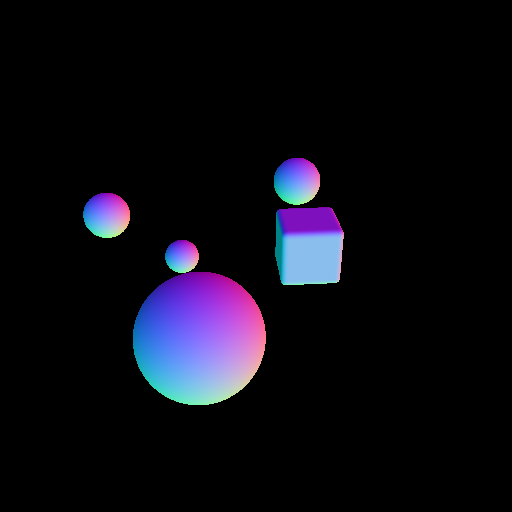
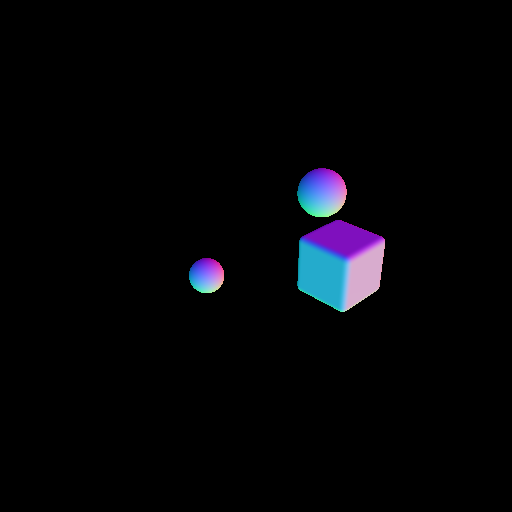
place obj randomly in test scenes

Changed region(s): [[0.25, 0.4688, 0.5312, 0.8125], [0.5312, 0.2812, 0.75, 0.625], [0.1562, 0.375, 0.2812, 0.4688]]

diff --git a/Assets/Scripts/VisualObjs.cs b/Assets/Scripts/VisualObjs.cs
@@ -61,9 +61,9 @@ public partial class VisualObjs : MonoBehaviour
     int fileCounter = 0;
     int maxFileCounter;
 
-    private int _trainNum = 100;
-    private int _testNum = 20;
-    private int _valNum = 20;
+    private int _trainNum = 10;
+    private int _testNum = 5;
+    private int _valNum = 5;
 
     // int train_end_idx = 10;
     // int validation_end_idx = 15;
@@ -79,6 +79,7 @@ public partial class VisualObjs : MonoBehaviour
 
     List<GameObject> models;
     private Rules rulesJson;
+    private string sceneType;
 
     // Start is called before the first frame update
     void Start()
@@ -104,7 +105,7 @@ public partial class VisualObjs : MonoBehaviour
         table_width = TABLE_WIDTH_BASE * scale_factor;
         table_height = TABLE_HEIGHT_BASE * scale_factor;
         maxFileCounter = _trainNum + _valNum + _testNum;
-        
+
         StreamReader streamReader = new StreamReader(Application.dataPath + "/Scripts/Rules/front.json");
         string json = streamReader.ReadToEnd();
         rulesJson = JsonConvert.DeserializeObject<Rules>(json);
@@ -121,16 +122,22 @@ public partial class VisualObjs : MonoBehaviour
         // generate test scenes
         if (fileCounter >= _trainNum + _valNum)
         {
+            sceneType = "test";
             saved_path = root_path + "test/";
             models = test_models;
         }
+        // generate validation scenes
         else if (fileCounter >= _trainNum)
         {
+            sceneType = "val";
             models = test_models;
             saved_path = root_path + "val/";
         }
+
+        // generate training scenes
         else if (fileCounter >= 0)
         {
+            sceneType = "train";
             saved_path = root_path + "train/";
         }
 
@@ -150,11 +157,6 @@ public partial class VisualObjs : MonoBehaviour
         // render the scene
         if (frames % _frameLoop == 0 && fileCounter < maxFileCounter)
         {
-            if (fileCounter == 2)
-            {
-                int a = 12;
-            }
-
             // change configurations if necessary
             SceneData = new SceneStruct(_objNum, fileCounter);
 
@@ -231,26 +233,28 @@ public partial class VisualObjs : MonoBehaviour
 
     bool addRuleObj(int objId, ObjProp objProp)
     {
-        // record objects' information
-        // List<Obj3D> obj3Ds = new List<Obj3D>();
+        float newScale = strFloMapping[objProp.size];
 
-        // init obj
+        if (String.Equals(sceneType, "test"))
+        {
+            bool isGood = randomPos(newScale, objProp.Shape,objProp.Material, objId);
+            return isGood;
+        }
 
         int num_tries = 0;
-        float obj_radius = strFloMapping[objProp.size] * UNIFY_RADIUS;
+        float obj_radius = newScale * UNIFY_RADIUS;
         GameObject obj_model = models[(int)strFloMapping[objProp.Shape]];
         Vector3 obj_pos;
         // find a 3D position for the new object
         while (true)
         {
-            num_tries += 1;
             // exceed the maximum trying time
+            num_tries += 1;
             if (num_tries > _maxNumTries) return false;
 
-            // check for positions
+            // choose a proper position
             bool pos_good = true;
-
-
+            // give a random position for the target object
             if (objProp.x == 0F && objProp.z == 0F)
             {
                 obj_pos = new Vector3(
@@ -260,13 +264,15 @@ public partial class VisualObjs : MonoBehaviour
                     table.transform.position[2] +
                     UnityEngine.Random.Range(-(table_length / 2) + obj_radius, (table_length / 2) - obj_radius));
             }
+            // give a position for the rest rule objects based on target object position and info from the json file
             else
             {
                 obj_pos = new Vector3(
                     objProp.x + SceneData.Objects[0].Position[0],
                     table.transform.position[1] + table_height * 0.5F + obj_radius,
-                    objProp.z + SceneData.Objects[0].Position[2]
-                );
+                    objProp.z + SceneData.Objects[0].Position[2]);
+
+                // check if new position locates in the area of table
                 if (obj_pos[0] < -(float)(table_width / 2) + obj_radius ||
                     obj_pos[0] > (float)(table_width / 2) - obj_radius ||
                     obj_pos[2] < -(float)(table_length / 2) + obj_radius ||
@@ -291,6 +297,51 @@ public partial class VisualObjs : MonoBehaviour
         return true;
     }
 
+    bool randomPos(float newScale, string newShape, string newMaterial, int objIdx)
+    {
+        int numTries = 0;
+        Vector3 objPos = new Vector3();
+        float objRadius = newScale * UNIFY_RADIUS;
+        while (true)
+        {
+            // check if exceed the maximum trying time
+            numTries += 1;
+            if (numTries > _maxNumTries) return false;
+
+            // choose new size and position
+
+
+            objPos[0] = table.transform.position[0] + UnityEngine.Random.Range(
+                -(float)(table_width / 2) + objRadius, (float)(table_width / 2) - objRadius);
+            objPos[1] = table.transform.position[1] + table_height * 0.5F + objRadius;
+            objPos[2] = table.transform.position[2] + UnityEngine.Random.Range(
+                -(float)(table_length / 2) + objRadius, (float)(table_length / 2) - objRadius);
+
+            // check for overlapping
+            bool distGood = true;
+            // bool margins_good = true;
+            for (int i = 0; i < objIdx; i++)
+            {
+                float dx = objPos[0] - SceneData.Objects[i].Position[0];
+                float dz = objPos[2] - SceneData.Objects[i].Position[2];
+                float dist = (float)Math.Sqrt(dx * dx + dz * dz);
+                if (dist - objRadius - SceneData.Objects[i].Size < MINIMUM_OBJ_DIST)
+                {
+                    // distGood = false;
+                    return false;
+                }
+            }
+            break;
+        }
+
+        // for cubes, adjust its radius
+        if (newShape == "cube") objRadius *= (float)Math.Sqrt(2);
+
+        // record the object data
+        SceneData.Objects[objIdx] = new ObjectStruct(objIdx, newShape, newMaterial, objRadius, objPos);
+
+        return true;
+    }
 
     bool addRandomObj(int objIdx)
     {
